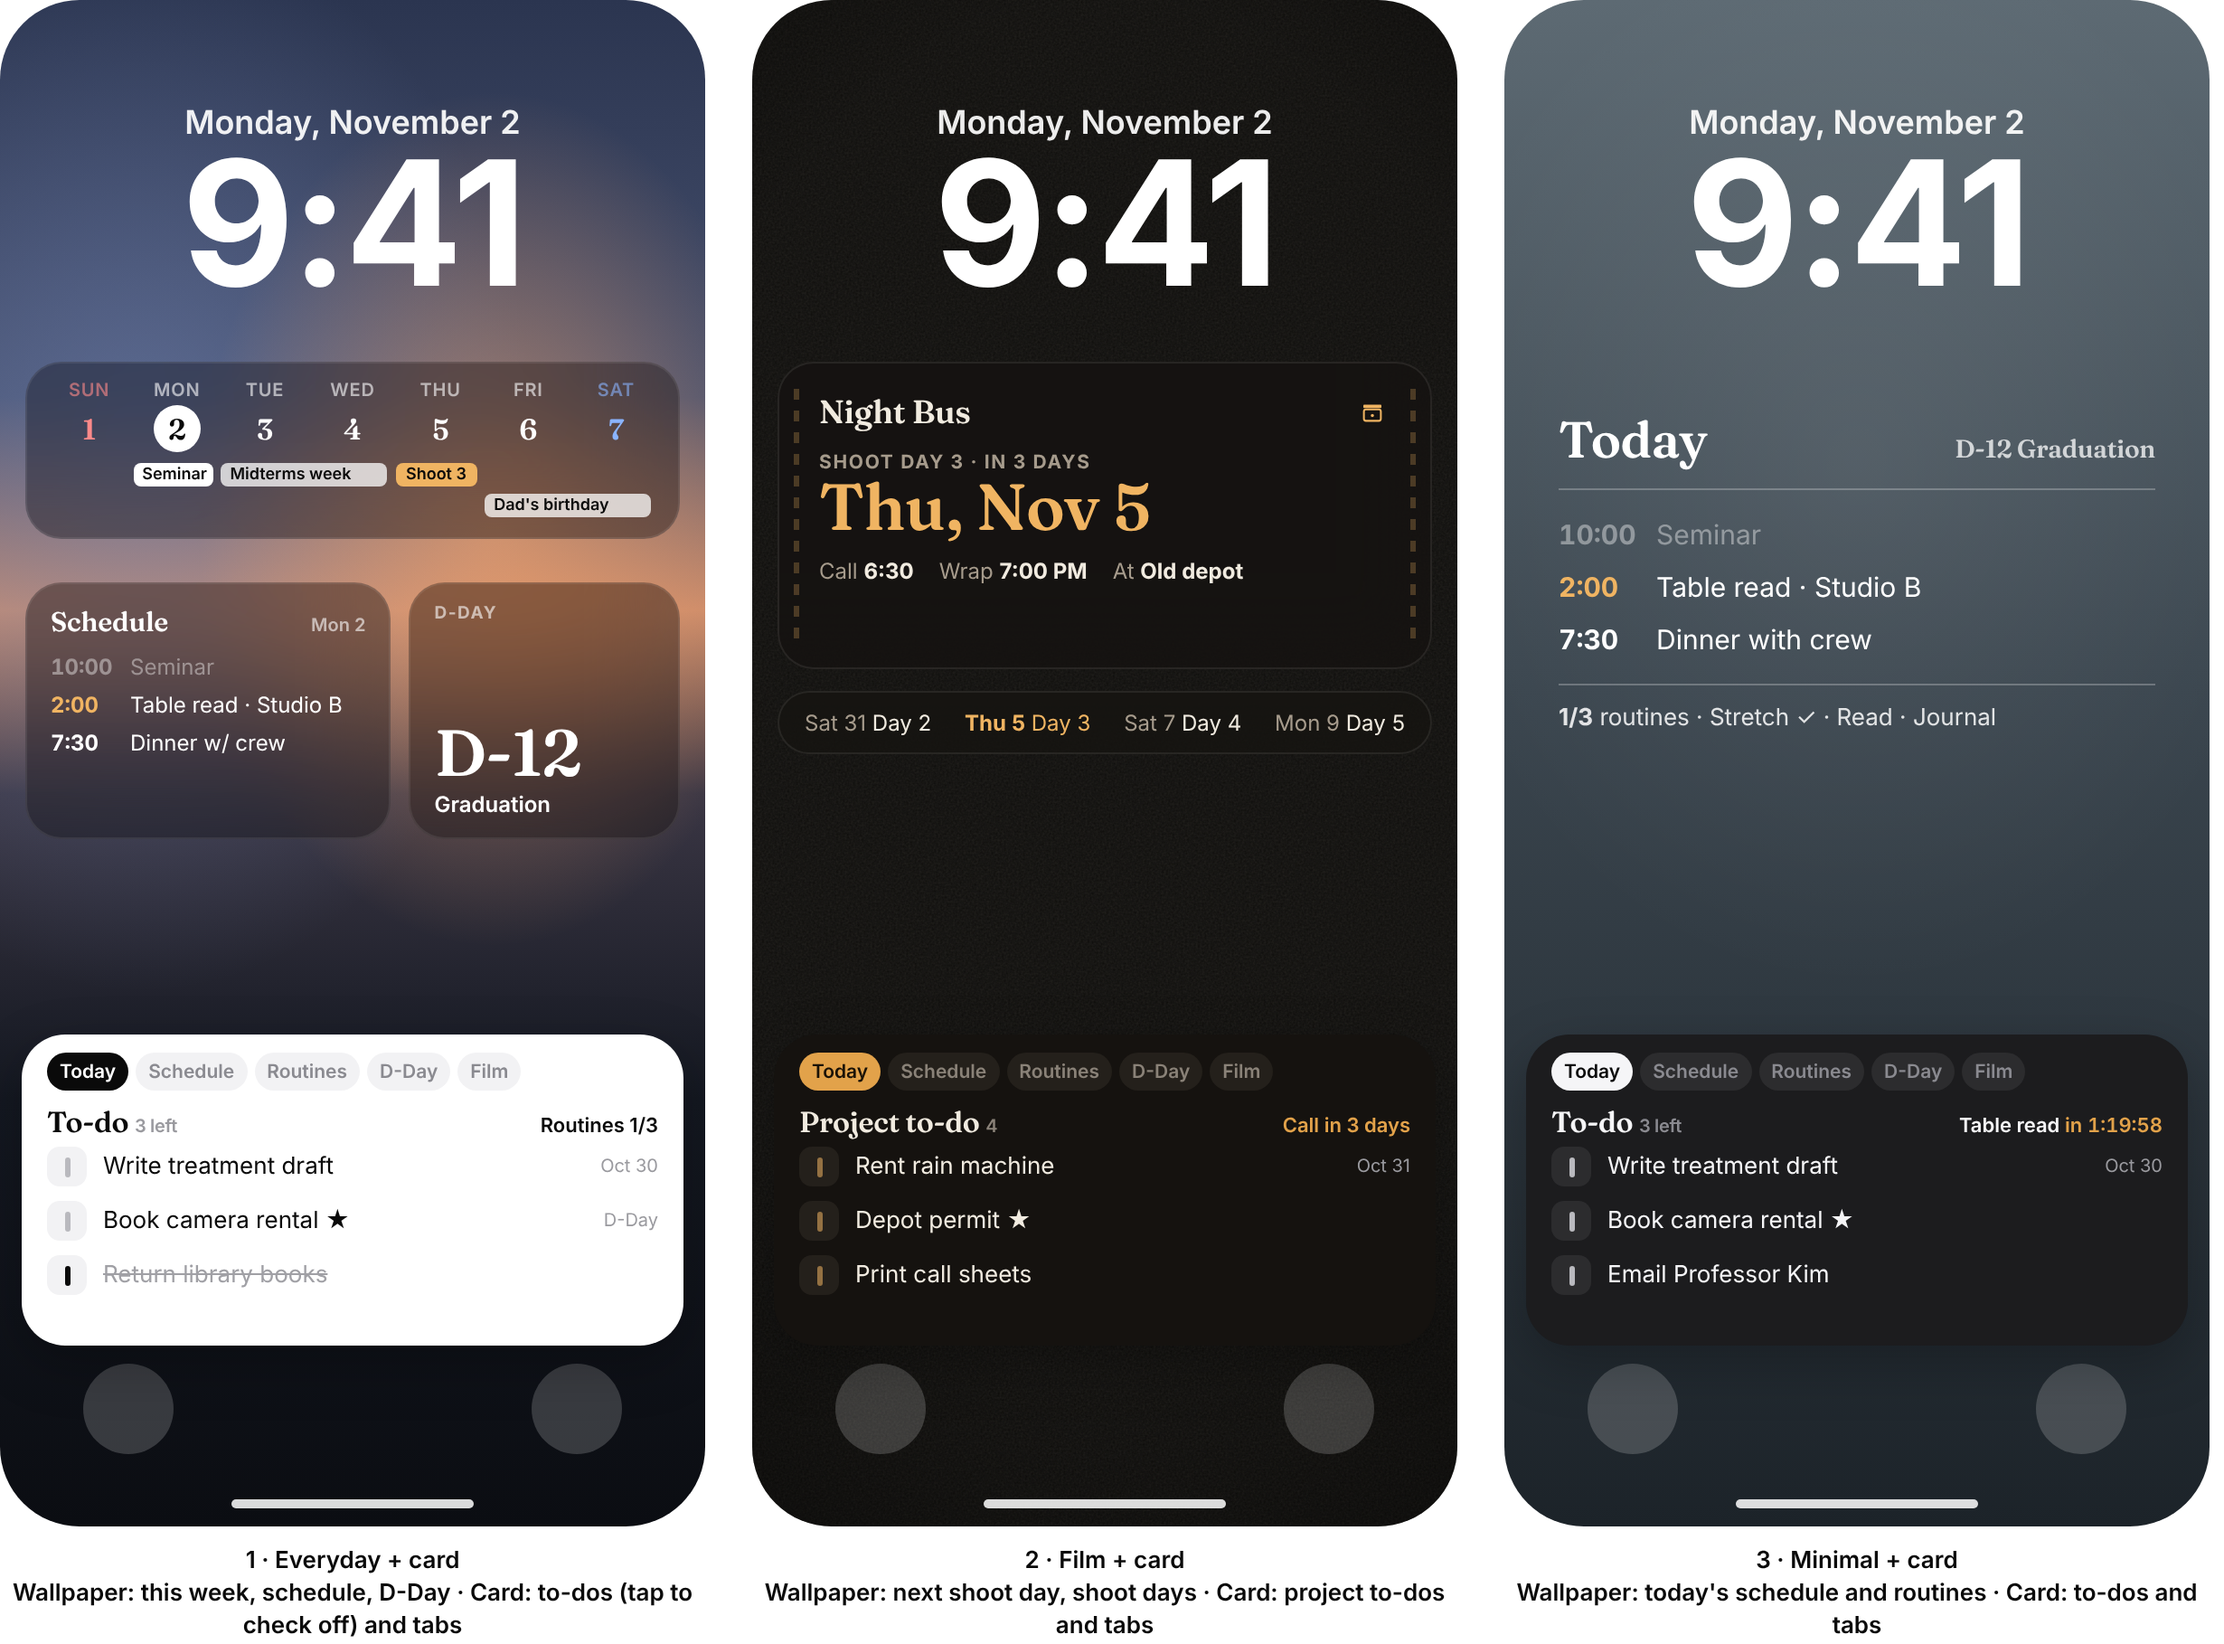
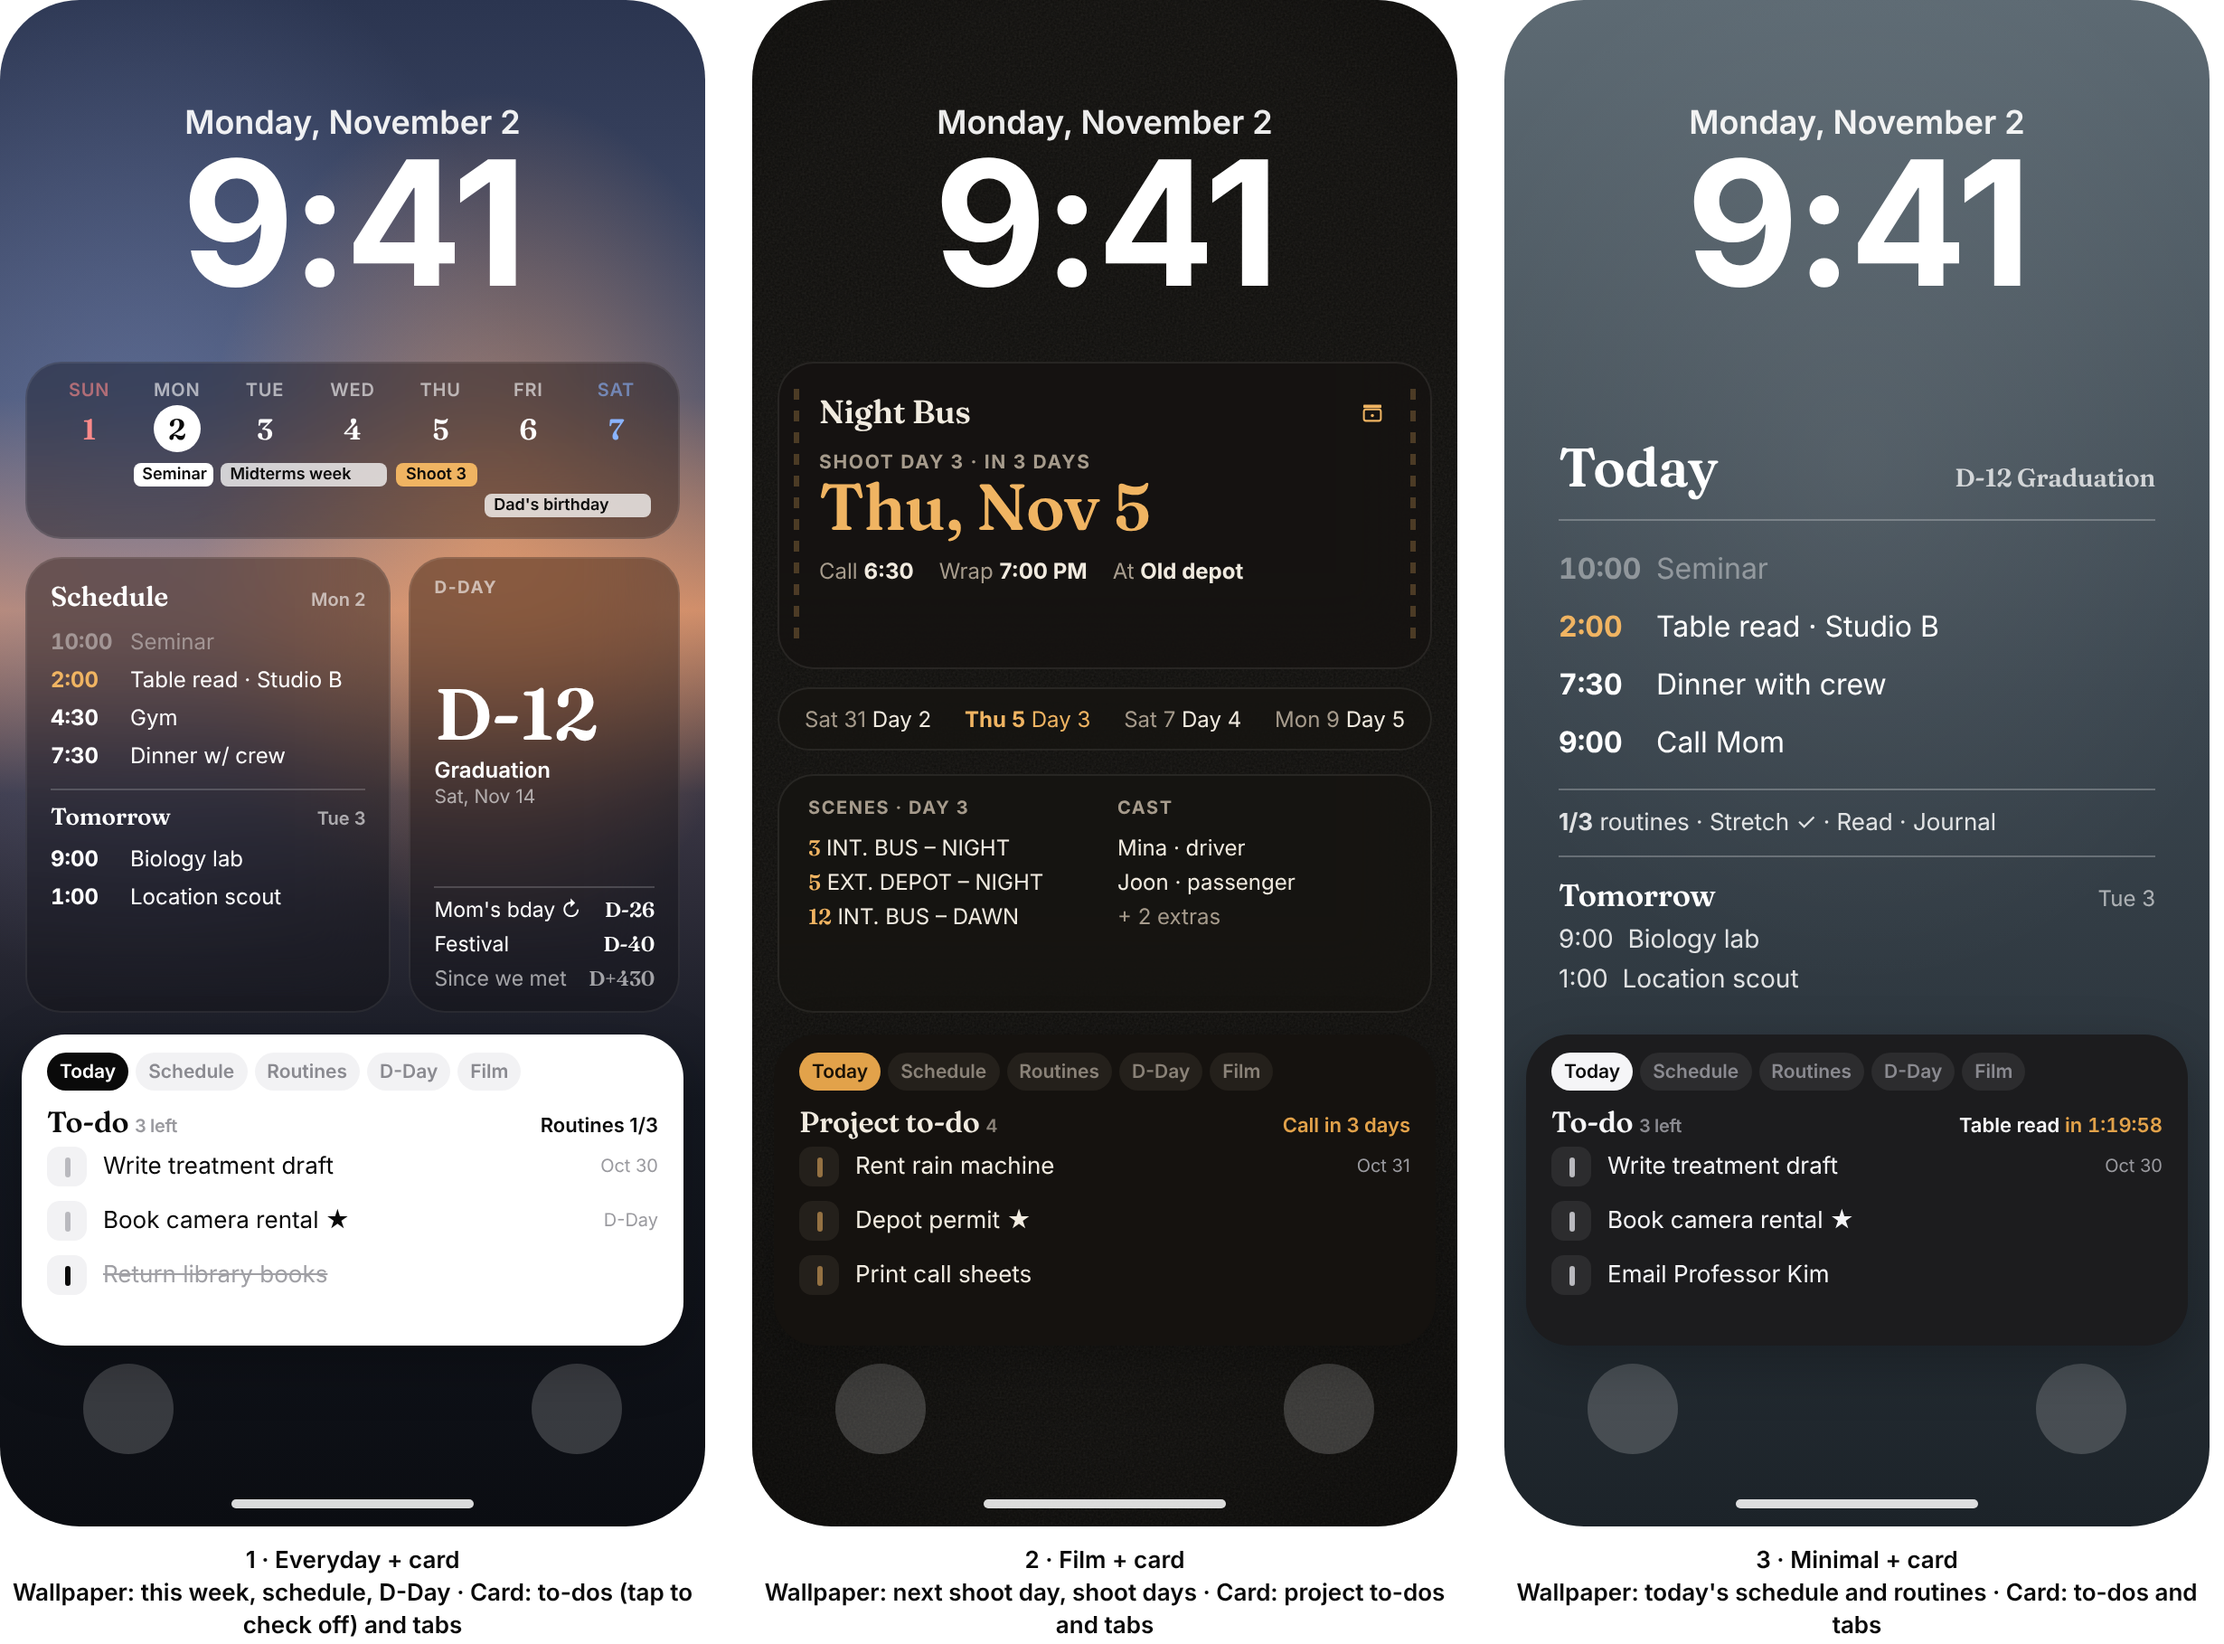
Fill the gap between wallpaper and card in the together design
Claude-Session: https://claude.ai/code/session_01ASSW9g954rm1kx6hrjz3o3

diff --git a/docs/native-widgets/source/together.html b/docs/native-widgets/source/together.html
@@ -88,16 +88,27 @@ body { font-family: -apple-system, "SF Pro Text", "Helvetica Neue", Arial, sans-
       <div class="bar" style="left:71.5%;width:27%;top:17px;background:rgba(255,255,255,.75)">Dad's birthday</div>
     </div>
   </div>
-  <div style="position:absolute;left:14px;right:14px;top:322px;display:grid;grid-template-columns:1.35fr 1fr;gap:10px">
-    <div class="pane" style="height:142px">
+  <div style="position:absolute;left:14px;right:14px;top:308px;display:grid;grid-template-columns:1.35fr 1fr;gap:10px">
+    <div class="pane" style="height:252px">
       <div class="ph"><span class="display t">Schedule</span><small>Mon 2</small></div>
       <div class="ev past"><span class="tm">10:00</span><span>Seminar</span></div>
       <div class="ev next"><span class="tm">2:00</span><span>Table read · Studio B</span></div>
+      <div class="ev"><span class="tm">4:30</span><span>Gym</span></div>
       <div class="ev"><span class="tm">7:30</span><span>Dinner w/ crew</span></div>
+      <div style="height:1px;background:rgba(255,255,255,.18);margin:8px 0 6px"></div>
+      <div class="ph"><span class="display t" style="font-size:13px">Tomorrow</span><small>Tue 3</small></div>
+      <div class="ev"><span class="tm">9:00</span><span>Biology lab</span></div>
+      <div class="ev"><span class="tm">1:00</span><span>Location scout</span></div>
     </div>
-    <div class="pane" style="height:142px;display:flex;flex-direction:column;justify-content:space-between">
+    <div class="pane" style="height:252px;display:flex;flex-direction:column;justify-content:space-between">
       <small style="font:700 9.5px -apple-system;letter-spacing:.08em;opacity:.6">D-DAY</small>
-      <div><div class="display" style="font-size:36px;line-height:1">D-12</div><div style="font-size:12px;font-weight:600;margin-top:3px">Graduation</div></div>
+      <div><div class="display" style="font-size:40px;line-height:1">D-12</div><div style="font-size:12px;font-weight:600;margin-top:3px">Graduation</div><div style="font-size:10.5px;opacity:.6;margin-top:1px">Sat, Nov 14</div></div>
+      <div style="display:grid;gap:5px;font-size:11.5px;white-space:nowrap">
+        <div style="height:1px;background:rgba(255,255,255,.18)"></div>
+        <div style="display:flex;justify-content:space-between"><span>Mom's bday ↻</span><b class="display">D-26</b></div>
+        <div style="display:flex;justify-content:space-between"><span>Festival</span><b class="display">D-40</b></div>
+        <div style="display:flex;justify-content:space-between;opacity:.6"><span>Since we met</span><b class="display">D+430</b></div>
+      </div>
     </div>
   </div>
   <div class="card">
@@ -128,8 +139,18 @@ body { font-family: -apple-system, "SF Pro Text", "Helvetica Neue", Arial, sans-
       <span><span class="fm">Call</span> <b>6:30</b></span><span><span class="fm">Wrap</span> <b>7:00 PM</b></span><span><span class="fm">At</span> <b>Old depot</b></span>
     </div>
   </div>
-  <div class="pane" style="position:absolute;left:14px;right:14px;top:382px;padding:9px 14px;background:rgba(20,17,14,.5);display:flex;justify-content:space-between;font-size:12px;color:#f1ebe0">
+  <div class="pane" style="position:absolute;left:14px;right:14px;top:380px;padding:9px 14px;background:rgba(20,17,14,.5);display:flex;justify-content:space-between;font-size:12px;color:#f1ebe0">
     <span><span class="fm">Sat 31</span> Day 2</span><span class="amber"><b>Thu 5</b> Day 3</span><span><span class="fm">Sat 7</span> Day 4</span><span><span class="fm">Mon 9</span> Day 5</span>
+  </div>
+  <div class="pane" style="position:absolute;left:14px;right:14px;top:428px;height:132px;padding:12px 16px;background:rgba(20,17,14,.5);color:#f1ebe0;display:grid;grid-template-columns:1fr 1fr;gap:14px">
+    <div>
+      <div class="fm" style="font-size:10px;font-weight:700;letter-spacing:.08em;margin-bottom:6px">SCENES · DAY 3</div>
+      <div style="font-size:12px;line-height:19px"><span class="amber display">3</span> INT. BUS – NIGHT<br><span class="amber display">5</span> EXT. DEPOT – NIGHT<br><span class="amber display">12</span> INT. BUS – DAWN</div>
+    </div>
+    <div>
+      <div class="fm" style="font-size:10px;font-weight:700;letter-spacing:.08em;margin-bottom:6px">CAST</div>
+      <div style="font-size:12px;line-height:19px">Mina · driver<br>Joon · passenger<br><span class="fm">+ 2 extras</span></div>
+    </div>
   </div>
   <div class="card film">
     <div class="tabs"><span class="on">Today</span><span>Schedule</span><span>Routines</span><span>D-Day</span><span>Film</span></div>
@@ -147,17 +168,21 @@ body { font-family: -apple-system, "SF Pro Text", "Helvetica Neue", Arial, sans-
 <div class="col">
 <div class="screen ph3">
   <div class="sys date">Monday, November 2</div><div class="sys clock">9:41</div>
-  <div style="position:absolute;left:30px;right:30px;top:226px">
+  <div style="position:absolute;left:30px;right:30px;top:240px">
     <div style="display:flex;justify-content:space-between;align-items:baseline">
-      <span class="display" style="font-size:28px">Today</span>
+      <span class="display" style="font-size:30px">Today</span>
       <span class="display" style="font-size:14px;opacity:.75">D-12 Graduation</span>
     </div>
     <div style="height:1px;background:rgba(255,255,255,.25);margin:10px 0"></div>
-    <div class="ev" style="font-size:15px;line-height:19px;padding:5px 0;opacity:.4"><span class="tm" style="width:46px">10:00</span><span>Seminar</span></div>
-    <div class="ev next" style="font-size:15px;line-height:19px;padding:5px 0"><span class="tm" style="width:46px">2:00</span><span>Table read · Studio B</span></div>
-    <div class="ev" style="font-size:15px;line-height:19px;padding:5px 0"><span class="tm" style="width:46px">7:30</span><span>Dinner with crew</span></div>
+    <div class="ev" style="font-size:16px;line-height:20px;padding:6px 0;opacity:.4"><span class="tm" style="width:46px">10:00</span><span>Seminar</span></div>
+    <div class="ev next" style="font-size:16px;line-height:20px;padding:6px 0"><span class="tm" style="width:46px">2:00</span><span>Table read · Studio B</span></div>
+    <div class="ev" style="font-size:16px;line-height:20px;padding:6px 0"><span class="tm" style="width:46px">7:30</span><span>Dinner with crew</span></div>
+    <div class="ev" style="font-size:16px;line-height:20px;padding:6px 0"><span class="tm" style="width:46px">9:00</span><span>Call Mom</span></div>
     <div style="height:1px;background:rgba(255,255,255,.25);margin:10px 0"></div>
     <div style="font-size:13px;opacity:.85"><b>1/3</b> routines · Stretch ✓ · Read · Journal</div>
+    <div style="height:1px;background:rgba(255,255,255,.25);margin:10px 0"></div>
+    <div style="display:flex;justify-content:space-between;align-items:baseline;margin-bottom:4px"><span class="display" style="font-size:17px">Tomorrow</span><span style="font-size:12px;opacity:.6">Tue 3</span></div>
+    <div style="font-size:14px;line-height:22px;opacity:.85">9:00&nbsp;&nbsp;Biology lab<br>1:00&nbsp;&nbsp;Location scout</div>
   </div>
   <div class="card dark">
     <div class="tabs"><span class="on">Today</span><span>Schedule</span><span>Routines</span><span>D-Day</span><span>Film</span></div>

diff --git a/docs/native-widgets/README.md b/docs/native-widgets/README.md
@@ -49,15 +49,15 @@ also appear big in StandBy. Light and dark follow the phone.
 
 ## 4 · Card + wallpaper together — `4-card-with-wallpaper.png`
 
-Designs 1 and 2 used at the same time. The wallpaper keeps to the space **between the clock
-and the card** (roughly the middle third of the screen), so the card never hides it, and it
+Designs 1 and 2 used at the same time. The wallpaper fills the whole space **from the clock down
+to the card** (no empty gap; it ends just above the card), so the card never hides it, and it
 shows **different** things than the card so nothing is repeated:
 
-- **Everyday + card**: wallpaper = this week strip, today's schedule, nearest D-Day; card =
+- **Everyday + card**: wallpaper = this week strip, today's and tomorrow's schedule, D-Days; card =
   to-dos to check off (other tabs as in 1).
-- **Film + card**: wallpaper = next shoot day (call / wrap / location) and the shoot-days
-  strip, film look; card = project to-dos with "Call in 3 days".
-- **Minimal + card**: wallpaper = just today's schedule and routines as text; card = to-dos
+- **Film + card**: wallpaper = next shoot day (call / wrap / location), the shoot-days
+  strip, its scenes and cast, film look; card = project to-dos with "Call in 3 days".
+- **Minimal + card**: wallpaper = today's schedule, routines and tomorrow as plain text; card = to-dos
   and the countdown to the next event.
 
 When the card isn't showing (ended after ~8 h, or turned off), the plain wallpaper layouts
